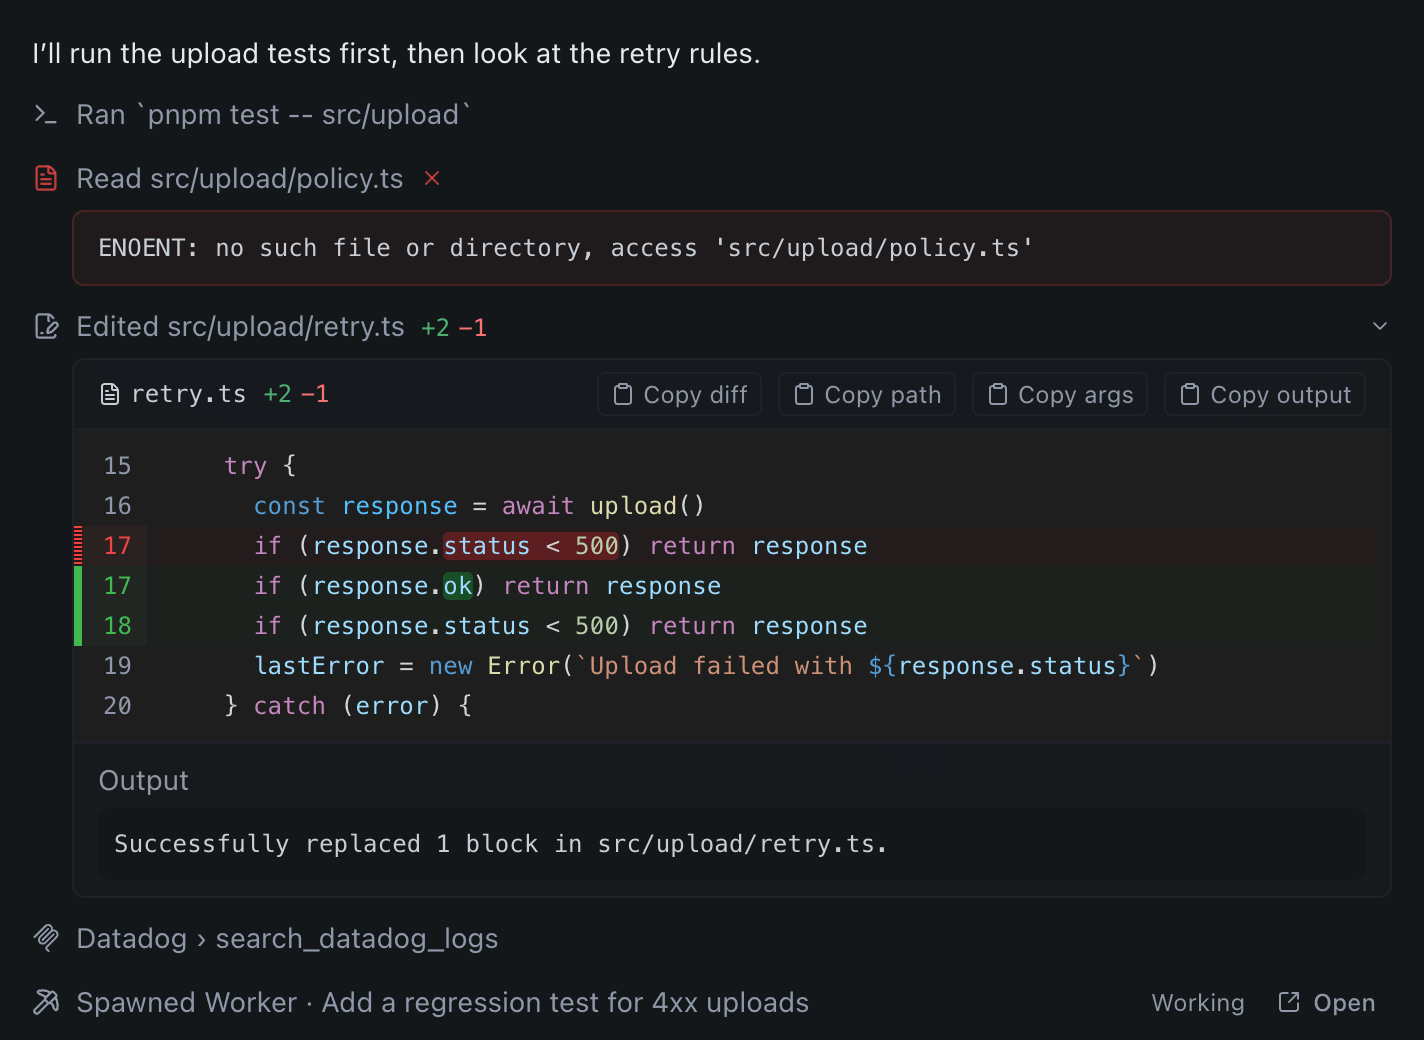
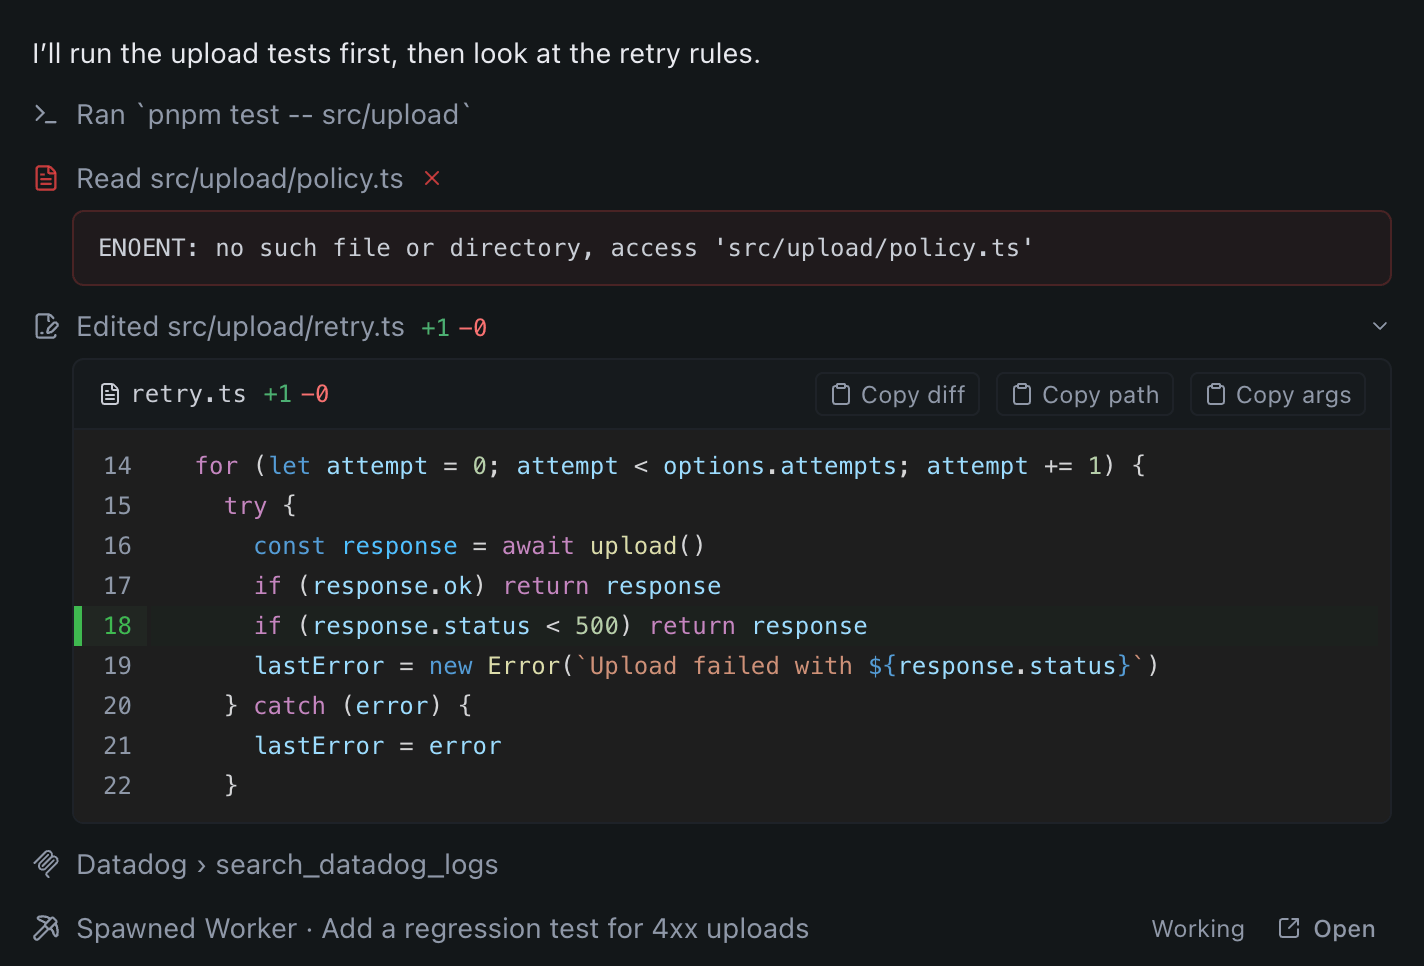
docs(website): make the upload retry fixture stop retrying client errors
The committed uploadWithRetry now retries every response that is not ok, so
the tool-rows edit and the diff-review change both add the early return the
captions describe. The edit result uses Pi's exact wording and its patch and
diff come from Pi's edit-diff output, checked by a unit test. The failed read
names the absolute path Pi resolves.

diff --git a/scripts/website-screenshot-essentials-tool-rows.ts b/scripts/website-screenshot-essentials-tool-rows.ts
@@ -1,3 +1,4 @@
+import path from 'node:path'
 import { HIVE_TOOL_NAME } from '@shared/constants/hive'
 
 /** The seeded Queen's one finished turn: each kind of tool row the docs describe. */
@@ -13,7 +14,8 @@ const READ_DURATION_MS = 12
 const EDIT_DURATION_MS = 31
 const LOGS_DURATION_MS = 2_260
 const SPAWN_DURATION_MS = 420
-const RETRY_CHANGE_LINE = 17
+/** The new line 18 adds the 4xx early return after line 17's `response.ok` check. */
+const RETRY_CHANGE_LINE = 18
 
 const TEST_OUTPUT = [
   ' RUN  v3.2.4 jotter',
@@ -24,27 +26,40 @@ const TEST_OUTPUT = [
   '      Tests  6 passed (6)',
 ].join('\n')
 
+// Pi's edit output for adding the 4xx early return: `generateUnifiedPatch` and
+// `generateDiffString` from its edit-diff module, both with 4 lines of context.
+const RETRY_CONTEXT_BEFORE = [
+  '  for (let attempt = 0; attempt < options.attempts; attempt += 1) {',
+  '    try {',
+  '      const response = await upload()',
+  '      if (response.ok) return response',
+]
+const RETRY_ADDED_LINE = '      if (response.status < 500) return response'
+const RETRY_CONTEXT_AFTER = [
+  '      lastError = new Error(`Upload failed with ${response.status}`)',
+  '    } catch (error) {',
+  '      lastError = error',
+  '    }',
+]
+const RETRY_HUNK_START = RETRY_CHANGE_LINE - RETRY_CONTEXT_BEFORE.length
+const RETRY_HUNK_OLD_LINES = RETRY_CONTEXT_BEFORE.length + RETRY_CONTEXT_AFTER.length
+
 const RETRY_PATCH = [
-  '--- a/src/upload/retry.ts',
-  '+++ b/src/upload/retry.ts',
-  `@@ -${String(RETRY_CHANGE_LINE - 2)},5 +${String(RETRY_CHANGE_LINE - 2)},6 @@`,
-  '     try {',
-  '       const response = await upload()',
-  '-      if (response.status < 500) return response',
-  '+      if (response.ok) return response',
-  '+      if (response.status < 500) return response',
-  '       lastError = new Error(`Upload failed with ${response.status}`)',
-  '     } catch (error) {',
+  '--- src/upload/retry.ts',
+  '+++ src/upload/retry.ts',
+  `@@ -${String(RETRY_HUNK_START)},${String(RETRY_HUNK_OLD_LINES)} +${String(RETRY_HUNK_START)},${String(RETRY_HUNK_OLD_LINES + 1)} @@`,
+  ...RETRY_CONTEXT_BEFORE.map((line) => ` ${line}`),
+  `+${RETRY_ADDED_LINE}`,
+  ...RETRY_CONTEXT_AFTER.map((line) => ` ${line}`),
   '',
 ].join('\n')
 
 const RETRY_DISPLAY_DIFF = [
-  `  ${String(RETRY_CHANGE_LINE - 2)}     try {`,
-  `  ${String(RETRY_CHANGE_LINE - 1)}       const response = await upload()`,
-  `-${String(RETRY_CHANGE_LINE)}       if (response.status < 500) return response`,
-  `+${String(RETRY_CHANGE_LINE)}       if (response.ok) return response`,
-  `+${String(RETRY_CHANGE_LINE + 1)}       if (response.status < 500) return response`,
-  `  ${String(RETRY_CHANGE_LINE + 2)}       lastError = new Error(\`Upload failed with \${response.status}\`)`,
+  '    ...',
+  ...RETRY_CONTEXT_BEFORE.map((line, index) => ` ${String(RETRY_HUNK_START + index)} ${line}`),
+  `+${String(RETRY_CHANGE_LINE)} ${RETRY_ADDED_LINE}`,
+  ...RETRY_CONTEXT_AFTER.map((line, index) => ` ${String(RETRY_CHANGE_LINE + index)} ${line}`),
+  '    ...',
 ].join('\n')
 
 const LOG_SUMMARY = [
@@ -89,7 +104,7 @@ function toolParts(step: ToolStep) {
  * command, a failed read, an edit with its diff, an MCP tool, and a Worker spawn with **Open**
  * (its result names the Worker, which only exists once the Hive is seeded).
  */
-export function toolRowsAssistantParts(workerSessionId: string) {
+export function toolRowsAssistantParts(workerSessionId: string, projectPath: string) {
   const steps: readonly ToolStep[] = [
     {
       id: 'website-essentials-test',
@@ -102,7 +117,10 @@ export function toolRowsAssistantParts(workerSessionId: string) {
       id: 'website-essentials-read',
       name: 'read',
       args: { path: 'src/upload/policy.ts' },
-      result: textResult("ENOENT: no such file or directory, access 'src/upload/policy.ts'"),
+      // Pi reports the absolute path it resolved against the Session's working directory.
+      result: textResult(
+        `ENOENT: no such file or directory, access '${path.join(projectPath, 'src/upload/policy.ts')}'`,
+      ),
       isError: true,
       duration: READ_DURATION_MS,
     },
@@ -113,14 +131,13 @@ export function toolRowsAssistantParts(workerSessionId: string) {
         path: 'src/upload/retry.ts',
         edits: [
           {
-            oldText: '      if (response.status < 500) return response',
-            newText:
-              '      if (response.ok) return response\n      if (response.status < 500) return response',
+            oldText: '      if (response.ok) return response',
+            newText: `      if (response.ok) return response\n${RETRY_ADDED_LINE}`,
           },
         ],
       },
       result: {
-        ...textResult('Successfully replaced 1 block in src/upload/retry.ts.'),
+        ...textResult('Successfully replaced 1 block(s) in src/upload/retry.ts.'),
         details: {
           diff: RETRY_DISPLAY_DIFF,
           patch: RETRY_PATCH,
@@ -164,7 +181,7 @@ export function toolRowsAssistantParts(workerSessionId: string) {
   ]
 }
 
-export function toolRowsMessages(now: number) {
+export function toolRowsMessages(now: number, projectPath: string) {
   return [
     {
       id: 'website-essentials-tools-user',
@@ -182,7 +199,7 @@ export function toolRowsMessages(now: number) {
       role: 'assistant',
       model: 'gpt-5.4',
       createdAt: now - TOOL_ROWS_UPDATED_MS,
-      parts: toolRowsAssistantParts(''),
+      parts: toolRowsAssistantParts('', projectPath),
     },
   ]
 }

diff --git a/scripts/__tests__/website-screenshot-essentials-tool-rows.unit.test.ts b/scripts/__tests__/website-screenshot-essentials-tool-rows.unit.test.ts
@@ -1,0 +1,72 @@
+import nodePath from 'node:path'
+import { describe, expect, it } from 'vitest'
+import { isRecord } from '../../src/shared/utils/validation'
+import { RETRY_SOURCE } from '../website-screenshot-essentials-project'
+import { toolRowsAssistantParts } from '../website-screenshot-essentials-tool-rows'
+
+const PROJECT_PATH = '/tmp/openwaggle-shots-test/jotter'
+
+function toolResult(name: string) {
+  for (const part of toolRowsAssistantParts('worker-session', PROJECT_PATH)) {
+    if (!('toolResult' in part) || !isRecord(part.toolResult)) continue
+    if (part.toolResult.name === name) return part.toolResult
+  }
+  throw new Error(`The tool rows fixture has no ${name} result.`)
+}
+
+function editStep() {
+  const step = toolResult('edit')
+  const { args, result } = step
+  if (!isRecord(args) || !isRecord(result) || !isRecord(result.details)) {
+    throw new Error('The edit row has no arguments or details.')
+  }
+  const { path, edits } = args
+  if (typeof path !== 'string' || !Array.isArray(edits)) throw new Error('Malformed edit args.')
+  return { path, edits: edits.filter(isRecord), result, details: result.details }
+}
+
+function textOf(result: Record<string, unknown>) {
+  const [block] = Array.isArray(result.content) ? result.content : []
+  return isRecord(block) ? block.text : undefined
+}
+
+describe('website tool rows fixture', () => {
+  it("records the edit exactly as Pi's edit tool reports it on the committed source", async () => {
+    const { generateDiffString, generateUnifiedPatch } = await import(
+      '@earendil-works/pi-coding-agent'
+    )
+    const { path, edits, result, details } = editStep()
+    let edited = RETRY_SOURCE
+    for (const edit of edits) {
+      const { oldText, newText } = edit
+      if (typeof oldText !== 'string' || typeof newText !== 'string') throw new Error('Bad edit.')
+      expect(edited.split(oldText)).toHaveLength(2)
+      edited = edited.replace(oldText, newText)
+    }
+    const diff = generateDiffString(RETRY_SOURCE, edited)
+
+    expect(details.patch).toBe(generateUnifiedPatch(path, RETRY_SOURCE, edited))
+    expect(details.diff).toBe(diff.diff)
+    expect(details.firstChangedLine).toBe(diff.firstChangedLine)
+    expect(textOf(result)).toBe(
+      `Successfully replaced ${String(edits.length)} block(s) in ${path}.`,
+    )
+  })
+
+  it('stops retrying client errors in the edit the reply describes', () => {
+    const { edits } = editStep()
+
+    expect(RETRY_SOURCE).toContain('if (response.ok) return response')
+    expect(RETRY_SOURCE).not.toContain('response.status < 500')
+    expect(edits.map((edit) => edit.newText).join('\n')).toContain('response.status < 500')
+  })
+
+  it('names the absolute path Pi resolved in the failed read', () => {
+    const { result } = toolResult('read')
+    if (!isRecord(result)) throw new Error('The read row has no result.')
+
+    expect(textOf(result)).toBe(
+      `ENOENT: no such file or directory, access '${nodePath.join(PROJECT_PATH, 'src/upload/policy.ts')}'`,
+    )
+  })
+})

diff --git a/scripts/website-screenshot-essentials-project.ts b/scripts/website-screenshot-essentials-project.ts
@@ -74,7 +74,8 @@ const SCRIPT_FILES: Readonly<Record<string, string>> = {
   ].join('\n'),
 }
 
-const RETRY_SOURCE = [
+/** The committed `src/upload/retry.ts`: it retries every response that is not ok, 4xx included. */
+export const RETRY_SOURCE = [
   "import { sleep } from '../util/sleep'",
   '',
   'export interface RetryOptions {',
@@ -91,7 +92,7 @@ const RETRY_SOURCE = [
   '  for (let attempt = 0; attempt < options.attempts; attempt += 1) {',
   '    try {',
   '      const response = await upload()',
-  '      if (response.status < 500) return response',
+  '      if (response.ok) return response',
   '      lastError = new Error(`Upload failed with ${response.status}`)',
   '    } catch (error) {',
   '      lastError = error',
@@ -103,9 +104,12 @@ const RETRY_SOURCE = [
   '',
 ].join('\n')
 
-/** The uncommitted change the Changes panel and its review comment show. */
+/**
+ * The uncommitted change the Changes panel and its review comment show: the base retries every
+ * failed response, and the change returns client errors at once, except 408 and 429.
+ */
 const RETRY_SOURCE_CHANGED = RETRY_SOURCE.replace(
-  '      if (response.status < 500) return response\n',
+  '      if (response.ok) return response\n',
   '      if (response.ok) return response\n      if (!isRetryable(response.status)) return response\n',
 ).replace(
   "import { sleep } from '../util/sleep'\n",

diff --git a/scripts/website-screenshot-essentials-fixture.ts b/scripts/website-screenshot-essentials-fixture.ts
@@ -132,7 +132,7 @@ export async function seedEssentialsSessions(userDataDir: string, project: Essen
       title: TOOL_ROWS_SESSION_TITLE,
       projectPath: project.projectPath,
       updatedAt: now - TOOL_ROWS_UPDATED_MS,
-      messages: toolRowsMessages(now),
+      messages: toolRowsMessages(now, project.projectPath),
     },
     [
       {
@@ -150,7 +150,11 @@ export async function seedEssentialsSessions(userDataDir: string, project: Essen
   try {
     database.exec('PRAGMA foreign_keys = ON')
     database.transaction(() => {
-      updateNodeParts(database, TOOL_ROWS_ASSISTANT_ID, toolRowsAssistantParts(workerSessionId))
+      updateNodeParts(
+        database,
+        TOOL_ROWS_ASSISTANT_ID,
+        toolRowsAssistantParts(workerSessionId, project.projectPath),
+      )
       addAlternateBranch(database, hive.queenSessionId, now)
     })()
   } finally {

diff --git a/website/src/content/docs/using-openwaggle/chat-and-tools.md b/website/src/content/docs/using-openwaggle/chat-and-tools.md
@@ -145,7 +145,7 @@ When the agent coordinates [Workers](/docs/using-openwaggle/hives-and-sessions),
 
 Expand a tool row to inspect its arguments and output. Shell output can appear while the command is still running; a live excerpt is progress, not a success result. Failed commands keep their available output for inspection. Use **Copy command** or **Copy output** when those controls are available.
 
-Expanding a successful edit row shows that file's diff instead of the raw edit arguments. Select the file name to open it at the first change, or use **Copy diff**, **Copy path**, **Copy args**, or **Copy output**. Any output an extension adds to the edit, such as diagnostics, appears under the diff. A failed edit still shows its arguments and the error. To review everything a turn changed, use the changed-files card or the [diff panel](/docs/developer-workflow/git-integration#diff-panel).
+Expanding a successful edit row shows that file's diff instead of the raw edit arguments. Select the file name to open it at the first change, or use **Copy diff**, **Copy path**, or **Copy args**. Any output an extension adds to the edit, such as diagnostics, appears under the diff, with **Copy output**. A failed edit still shows its arguments and the error. To review everything a turn changed, use the changed-files card or the [diff panel](/docs/developer-workflow/git-integration#diff-panel).
 
 A first message reports each setup step in the conversation, such as pulling the branch, creating a worktree, or connecting an MCP server it has to wait for. **Worktree created** confirms the checkout exists, not that project setup or the task has finished. A configured setup command must complete before the first agent turn. See [First-send worktree feedback](/docs/developer-workflow/git-integration#first-send-worktree-feedback).
 

diff --git a/website/src/content/docs/developer-workflow/git-integration.md b/website/src/content/docs/developer-workflow/git-integration.md
@@ -220,7 +220,7 @@ Click **Open commit dialog** in the header. Hover the icon to see its label.
 4. Choose **Amend last commit** only if you intend to replace the previous commit rather than create a new one.
 5. Use **Refresh** if files changed while the dialog was open. This also refreshes the header's diff stats.
 
-![The Commit changes dialog: 1/1 files selected with +8 / -1, a commit message typed in, Amend last commit unchecked, src/upload/retry.ts checked, and Cancel and Commit](/screenshots/commit-dialog.png)
+![The Commit changes dialog: 1/1 files selected with +7 / -0, a commit message typed in, Amend last commit unchecked, src/upload/retry.ts checked, and Cancel and Commit](/screenshots/commit-dialog.png)
 
 On success a toast confirms the commit and the diff stats refresh. In New-worktree mode the commit lands in the session's worktree, leaving the opened checkout untouched.
 
